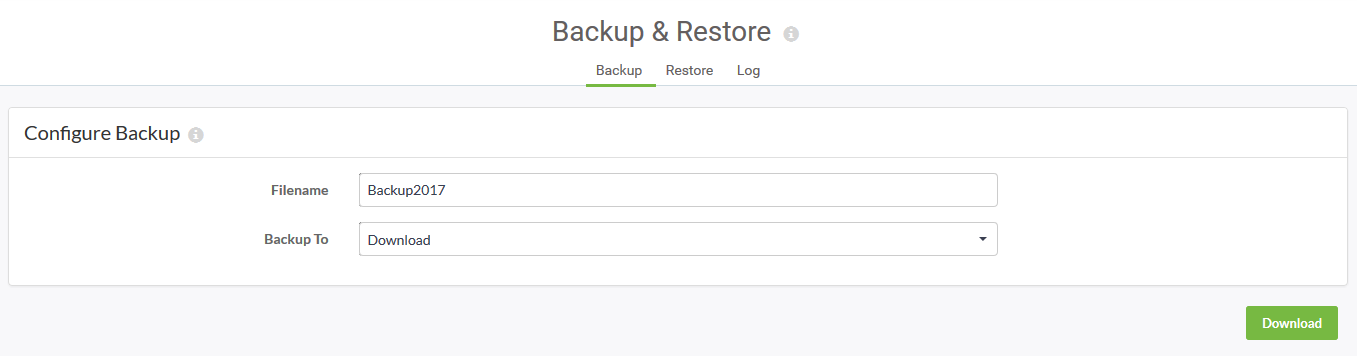
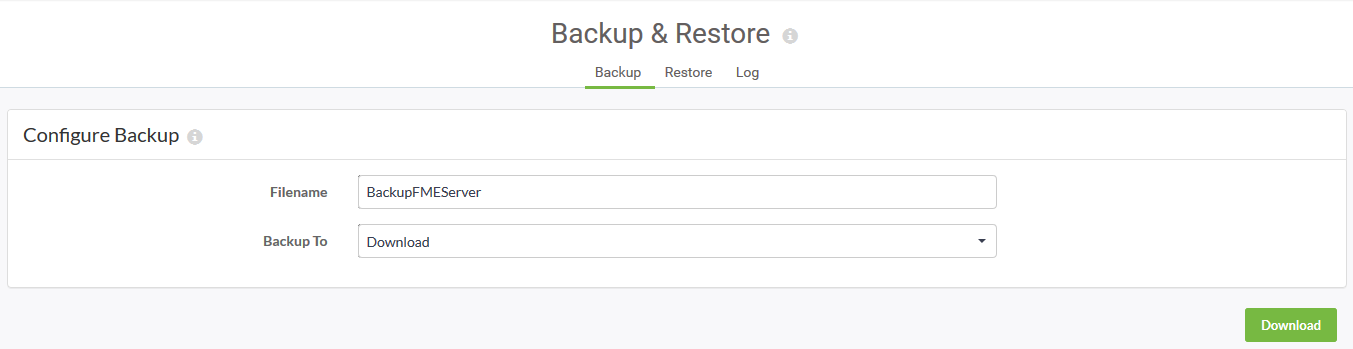
MigrationExercise
backup steps and configuration files preliminary steps

diff --git a/ServerAdmin5Migration/6.03.Exercise_Migration.md b/ServerAdmin5Migration/6.03.Exercise_Migration.md
@@ -1,2 +1,29 @@
 # Exercise: Backup and Migration #
 
+Your organization has decided to upgrade FME Server to the just released new version. You want to make sure all the configurations, settings, and resources you have made to your current FME Server transfer over to the new FME Server. By backing up your current FME Server and then migrating the configurations and settings to the new version you will save lots of time not making all those changes manually.
+
+**1) Connect to FME Server**
+<br>
+Open the FME Server Web User Interface, either through the Web User Interface option on the Windows Start Menu or directly in your web browser (http://localhost/fmeserver), and log in using the username and password *admin*.
+
+**2) Backup FME Server**
+<br>
+When migrating FME Server, you need to back up your current FME Server configurations.
+
+On the Web User Interface, click **Backup & Restore**.
+
+![](./Images/6.401.Backup&Restore.png)
+
+On the *Backup* page, enter a file name (such as BackupFMEServer) and select the *Backup To* method to be **Download**.
+
+![](./Images/6.402.BackupFile.png)
+
+Click the **Download** button to download and save the file to your computer.
+
+**4) Configuration Files**
+
+It is also a good idea to manually back up any FME Server configuration files you have altered to a location outside of your FME Server installation directory for reference later on. Certain configurations are not included in the primary backup procedure and you will need to configure the old files with the new files.
+
+In this training course, we have altered *server.xml*, *web.xml*, *context.xml*, and created a tomcat.keystore file in *Configuring FME Server for HTTPS* exercise, and *pg_hba.conf*, *fmeCommonConfig.txt* in the *Switching to a PostgreSQL Database* exercise. 
+
+Copy these files to where you saved your **BackupFMEServer** configuration.
